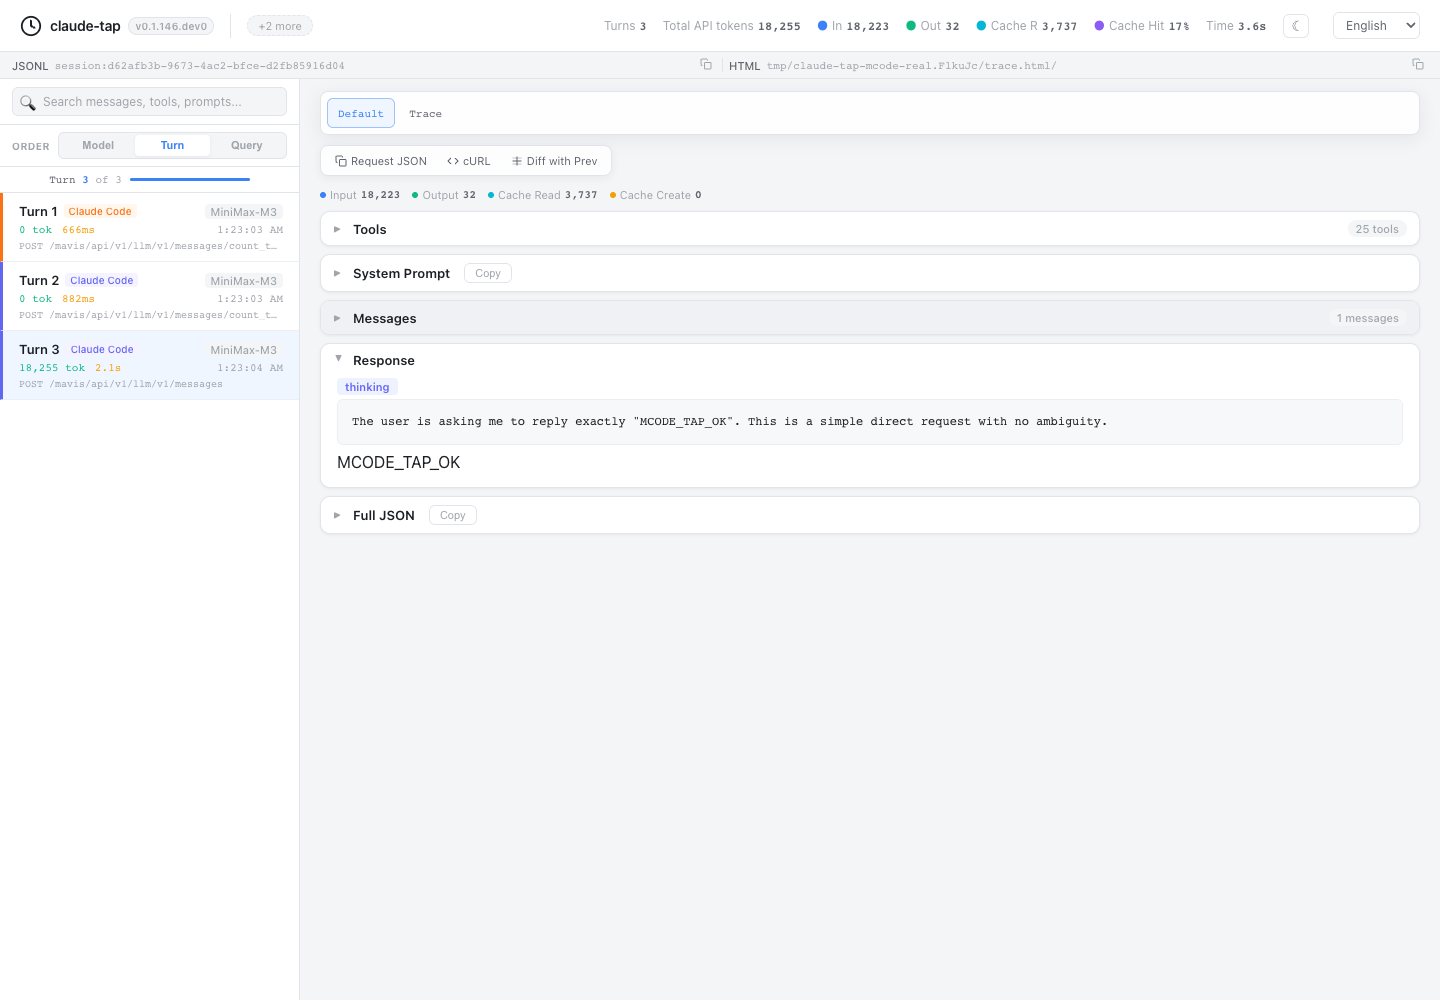
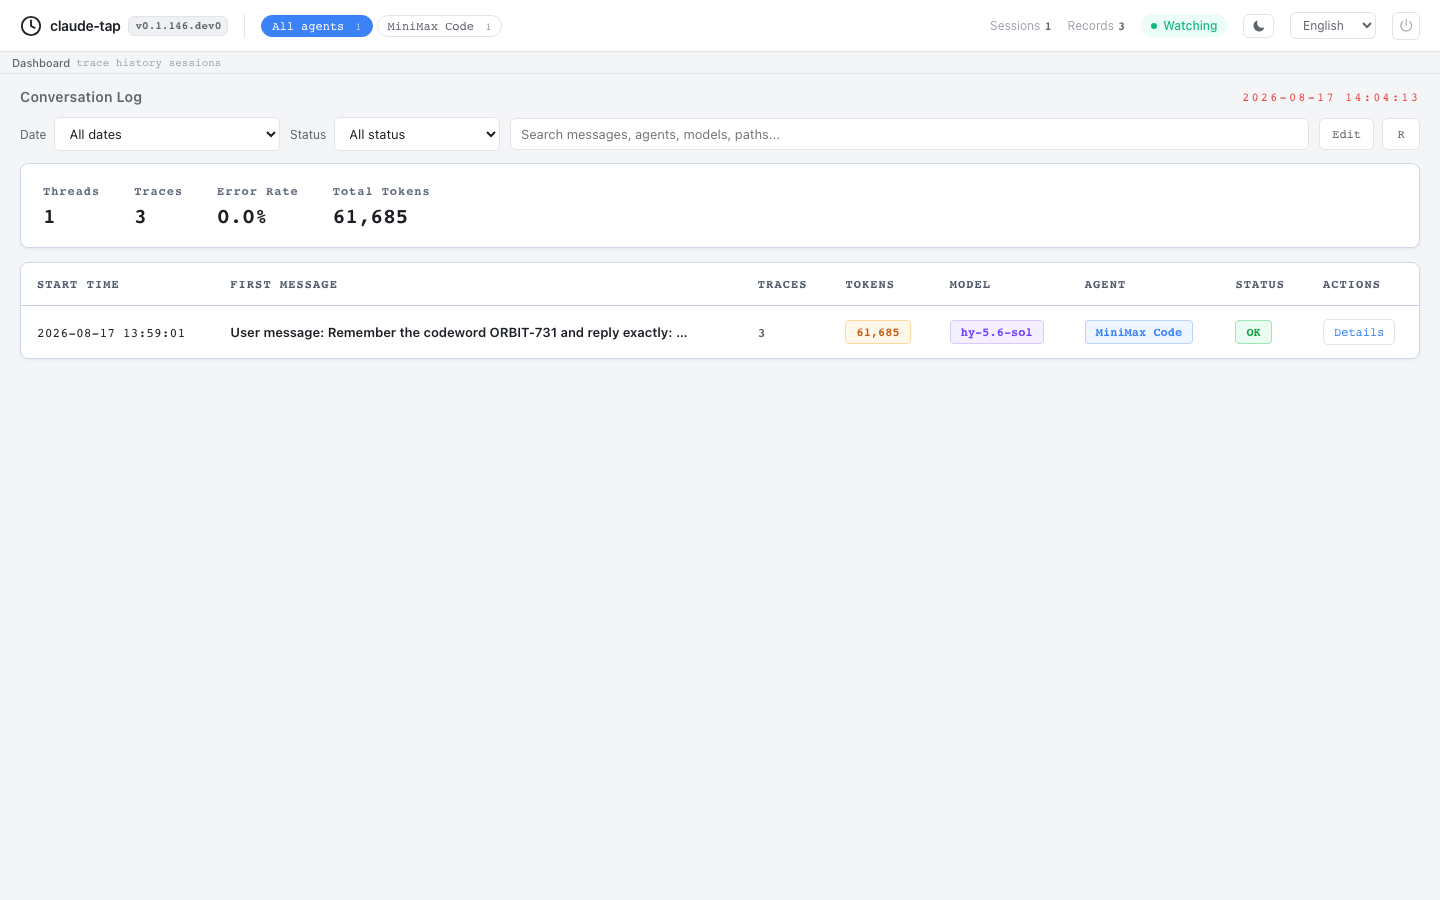
fix: tighten MiniMax Code trace evidence
Assisted-by: MiniMax Code

diff --git a/claude_tap/forward_proxy.py b/claude_tap/forward_proxy.py
@@ -127,6 +127,20 @@ def _matches_path_suffix(path: str, suffixes: tuple[str, ...]) -> bool:
     return any(clean.endswith(suffix.lower()) for suffix in suffixes)
 
 
+def _is_model_request_body(path: str, request_body: dict | None) -> bool:
+    if not isinstance(request_body, dict):
+        return False
+    model = request_body.get("model")
+    if not isinstance(model, str) or not model.strip():
+        return False
+    clean_path = path.split("?", 1)[0].rstrip("/").lower()
+    if clean_path.endswith(("/messages", "/messages/count_tokens", "/chat/completions")):
+        return isinstance(request_body.get("messages"), list)
+    if clean_path.endswith("/responses"):
+        return "input" in request_body
+    return False
+
+
 def _header_value(headers: Mapping[str, str], name: str) -> str:
     if value := headers.get(name):
         return value
@@ -279,6 +293,7 @@ class ForwardProxyServer:
         trace_methods: tuple[str, ...] = (),
         trace_path_prefixes: tuple[str, ...] = (),
         trace_path_suffixes: tuple[str, ...] = (),
+        trace_model_requests_only: bool = False,
         store_stream_events: bool = False,
         capture_only: bool = False,
     ) -> None:
@@ -292,6 +307,7 @@ class ForwardProxyServer:
         self._trace_methods = frozenset(method.upper() for method in trace_methods)
         self._trace_path_prefixes = trace_path_prefixes
         self._trace_path_suffixes = trace_path_suffixes
+        self._trace_model_requests_only = trace_model_requests_only
         self._store_stream_events = store_stream_events
         self._capture_only = capture_only
         self._server: asyncio.Server | None = None
@@ -300,16 +316,20 @@ class ForwardProxyServer:
         self._turn_counter = 0
         self.actual_port: int = port
 
-    def _should_trace_request(self, method: str, path: str) -> bool:
-        if self._trace_methods and method.upper() not in self._trace_methods:
+    def _should_trace_request(self, method: str, path: str, request_body: dict | None = None) -> bool:
+        normalized_method = method.upper()
+        if self._trace_methods and normalized_method not in self._trace_methods:
             return False
         has_path_filter = bool(self._trace_path_prefixes or self._trace_path_suffixes)
-        matches_path = _matches_path_prefix(path, self._trace_path_prefixes) or _matches_path_suffix(
-            path, self._trace_path_suffixes
-        )
-        if has_path_filter and not matches_path:
+        matches_prefix = _matches_path_prefix(path, self._trace_path_prefixes)
+        matches_suffix = _matches_path_suffix(path, self._trace_path_suffixes)
+        if has_path_filter and not (matches_prefix or matches_suffix):
             return False
-        return True
+        if not self._trace_model_requests_only:
+            return True
+        if normalized_method == "WEBSOCKET":
+            return matches_prefix
+        return _is_model_request_body(path, request_body)
 
     def _next_trace_turn(self) -> int:
         self._turn_counter += 1
@@ -559,14 +579,14 @@ class ForwardProxyServer:
         client_writer: asyncio.StreamWriter,
     ) -> None:
         """Forward request to upstream, record trace, send response back."""
-        should_trace = self._should_trace_request(method, path)
+        trace_body = _decode_request_body_for_trace(body, headers)
+        req_body = _parse_request_body_for_trace(trace_body, headers)
+        should_trace = self._should_trace_request(method, path, req_body)
         turn = self._next_trace_turn() if should_trace else None
         req_id = f"req_{uuid.uuid4().hex[:12]}"
         t0 = time.monotonic()
         log_prefix = f"[Turn {turn}]" if turn is not None else "[relay]"
 
-        trace_body = _decode_request_body_for_trace(body, headers)
-        req_body = _parse_request_body_for_trace(trace_body, headers)
         upstream_base_url = _upstream_base_url(upstream_url, path)
 
         is_streaming = is_capture_only_streaming_request(path, req_body)

diff --git a/tests/test_mcode_launch.py b/tests/test_mcode_launch.py
@@ -36,6 +36,7 @@ def test_mcode_registered_as_filtered_forward_proxy_client() -> None:
     assert cfg.default_proxy_mode == "forward"
     assert cfg.forward_trace_methods == ("POST", "WEBSOCKET")
     assert cfg.forward_trace_path_prefixes == ("/backend-api/codex/responses",)
+    assert cfg.forward_trace_model_requests_only is True
     assert cfg.forward_trace_path_suffixes == (
         "/messages",
         "/messages/count_tokens",
@@ -59,19 +60,22 @@ def test_parse_args_mcode_rejects_reverse_mode(capsys: pytest.CaptureFixture[str
 
 
 @pytest.mark.parametrize(
-    ("method", "path", "expected"),
+    ("method", "path", "request_body", "expected"),
     [
-        ("POST", "/mavis/api/v1/llm/v1/messages", True),
-        ("POST", "/v1/messages/count_tokens", True),
-        ("POST", "/v1/chat/completions", True),
-        ("POST", "/v1/responses", True),
-        ("WEBSOCKET", "/backend-api/codex/responses", True),
-        ("GET", "/v1/messages", False),
-        ("POST", "/mavis/api/v1/auth/refresh", False),
-        ("POST", "/v1/models", False),
+        ("POST", "/mavis/api/v1/llm/v1/messages", {"model": "MiniMax-M3", "messages": []}, True),
+        ("POST", "/v1/messages/count_tokens", {"model": "MiniMax-M3", "messages": []}, True),
+        ("POST", "/v1/chat/completions", {"model": "custom-model", "messages": []}, True),
+        ("POST", "/v1/responses", {"model": "gpt-5", "input": "hello"}, True),
+        ("WEBSOCKET", "/backend-api/codex/responses", None, True),
+        ("GET", "/v1/messages", None, False),
+        ("POST", "/mavis/api/v1/auth/refresh", {"refresh_token": "secret"}, False),
+        ("POST", "/v1/models", {}, False),
+        ("POST", "/tools/messages", {"tool": "remote-service", "payload": "sensitive"}, False),
+        ("POST", "/chat/completions", {"messages": []}, False),
+        ("WEBSOCKET", "/tools/responses", None, False),
     ],
 )
-def test_mcode_capture_filter(method: str, path: str, expected: bool) -> None:
+def test_mcode_capture_filter(method: str, path: str, request_body: dict | None, expected: bool) -> None:
     cfg = CLIENT_CONFIGS["mcode"]
     server = ForwardProxyServer(
         host="127.0.0.1",
@@ -82,9 +86,10 @@ def test_mcode_capture_filter(method: str, path: str, expected: bool) -> None:
         trace_methods=cfg.forward_trace_methods,
         trace_path_prefixes=cfg.forward_trace_path_prefixes,
         trace_path_suffixes=cfg.forward_trace_path_suffixes,
+        trace_model_requests_only=cfg.forward_trace_model_requests_only,
     )
 
-    assert server._should_trace_request(method, path) is expected
+    assert server._should_trace_request(method, path, request_body) is expected
 
 
 @pytest.mark.asyncio

diff --git a/tests/test_e2e.py b/tests/test_e2e.py
@@ -2236,6 +2236,14 @@ refresh_req = urllib.request.Request(
 with urllib.request.urlopen(refresh_req) as refresh_resp:
     assert refresh_resp.status == 204
 
+non_model_req = urllib.request.Request(
+    f"{base}/tools/messages",
+    data=json.dumps({"tool": "remote-service", "payload": "must-not-be-persisted"}).encode(),
+    headers={"Content-Type": "application/json"},
+)
+with urllib.request.urlopen(non_model_req) as non_model_resp:
+    assert non_model_resp.status == 204
+
 req_body = json.dumps({
     "model": "MiniMax-M3",
     "system": "You are a helpful software engineer assistant.",
@@ -2277,7 +2285,7 @@ def test_mcode_client_forward_proxy_filters_non_model_requests():
     async def handler(request):
         from aiohttp import web
 
-        if request.path == "/mavis/api/v1/auth/refresh":
+        if request.path in {"/mavis/api/v1/auth/refresh", "/tools/messages"}:
             return web.Response(status=204)
 
         body = await request.json()
@@ -2355,6 +2363,7 @@ def test_mcode_client_forward_proxy_filters_non_model_requests():
             "output_tokens": 4,
         }
         assert "auth/refresh" not in json.dumps(records)
+        assert "must-not-be-persisted" not in json.dumps(records)
         assert "MiniMax Code" in proc.stdout
         assert "forward proxy" in proc.stdout
     finally:

diff --git a/claude_tap/cli_clients.py b/claude_tap/cli_clients.py
@@ -332,6 +332,10 @@ class ClientConfig:
     forward_trace_methods: tuple[str, ...] = ()
     forward_trace_path_prefixes: tuple[str, ...] = ()
     forward_trace_path_suffixes: tuple[str, ...] = ()
+    # Require a recognized model request body before persisting a matching HTTP
+    # path. This keeps generic tool/control-plane endpoints with model-like path
+    # suffixes out of trace storage while still relaying them.
+    forward_trace_model_requests_only: bool = False
     # Transcript-only clients are observed from local session logs instead of a
     # spawned process and do not need a reverse or forward proxy.
     transcript_only: bool = False
@@ -502,6 +506,7 @@ CLIENT_CONFIGS: dict[str, ClientConfig] = {
             "/chat/completions",
             "/responses",
         ),
+        forward_trace_model_requests_only=True,
     ),
     "gemini": ClientConfig(
         cmd="gemini",

diff --git a/claude_tap/cli.py b/claude_tap/cli.py
@@ -486,6 +486,7 @@ async def _async_main(args: argparse.Namespace) -> int:
                     trace_methods=CLIENT_CONFIGS[args.client].forward_trace_methods,
                     trace_path_prefixes=CLIENT_CONFIGS[args.client].forward_trace_path_prefixes,
                     trace_path_suffixes=CLIENT_CONFIGS[args.client].forward_trace_path_suffixes,
+                    trace_model_requests_only=CLIENT_CONFIGS[args.client].forward_trace_model_requests_only,
                     store_stream_events=args.store_stream_events,
                     capture_only=capture_only,
                 )

diff --git a/tests/test_dashboard.py b/tests/test_dashboard.py
@@ -844,6 +844,7 @@ def test_dashboard_parses_provider_fallbacks(trace_db, tmp_path: Path) -> None:
 
     provider_cases = [
         ({"metadata": {"client": "agy"}}, [], "Antigravity"),
+        ({"metadata": {"client": "mcode"}}, [], "MiniMax Code"),
         ({}, [{"capture": {"client": "cursor"}}], "Cursor"),
         ({}, [{"request": {"headers": {"host": "generativelanguage.googleapis.com"}}}], "Gemini"),
         ({}, [{"request": {"path": "/v1/responses"}}], "Codex"),

diff --git a/claude_tap/dashboard.py b/claude_tap/dashboard.py
@@ -35,6 +35,7 @@ CLIENT_LABELS = {
     "hermes": "Hermes",
     "kimi": "Kimi",
     "kimi-code": "Kimi Code",
+    "mcode": "MiniMax Code",
     "mimo": "MiMo Code",
     "opencode": "OpenCode",
     "pi": "Pi",

diff --git a/.agents/evidence/pr/mcode-client/README.md b/.agents/evidence/pr/mcode-client/README.md
@@ -1,28 +1,37 @@
 # MiniMax Code Client Evidence
 
-Source: real MiniMax Code 0.1.2 run through this branch's filtered forward
-proxy using the locally authenticated managed MiniMax provider.
+Source: a real interactive MiniMax Code 0.1.2 TUI session launched through
+this branch's filtered forward proxy with the locally authenticated managed
+MiniMax provider.
 
-- Trace session: `d62afb3b-9673-4ac2-bfce-d2fb85916d04`
+- Trace session: `76243671-fbdf-430e-9175-989e33b3ea97`
 - Proxy mode: `forward`
-- Model: `MiniMax-M3`
+- Client identity stored by claude-tap: `mcode` (`MiniMax Code` in dashboard)
+- Model: `hy-5.6-sol`
 - Captured model calls: 3
-- MCode exit code: 0
-- Expected and observed response: `MCODE_TAP_OK`
-- Exported viewer: `/tmp/claude-tap-mcode-real.FlkuJc/trace.html` (local only)
+- Session status after `/exit`: `complete`
 - Screenshot: `mcode-real-e2e-trace-viewer.png`
 
-The run used the safe prompt `Reply exactly MCODE_TAP_OK.`. The trace database,
-JSON export, and HTML viewer remain local and are not committed. The screenshot
-shows the final response and aggregate token accounting without authentication
-headers or user workspace content.
+The same interactive TUI conversation completed two user turns:
 
-Validation commands:
+1. `Remember the codeword ORBIT-731 and reply exactly: STORED ORBIT-731`
+   returned `STORED ORBIT-731`.
+2. `What codeword did I ask you to remember? Reply exactly: RECALL ORBIT-731`
+   returned `RECALL ORBIT-731`.
+
+The isolated SQLite database confirmed one completed `mcode` session with three
+captured model records, and all three records contained the safe codeword. The
+screenshot is the real dashboard summary for that database. It shows the
+`MiniMax Code` client identity, three traces, the actual model, successful
+status, and the safe first-message preview without exposing request headers,
+authentication data, system context, or user workspace content.
+
+The database, raw trace records, and tmux log remain under an isolated `/tmp`
+directory and are not committed.
+
+Validation command:
 
 ```bash
 uv run python scripts/check_screenshots.py \
   .agents/evidence/pr/mcode-client/mcode-real-e2e-trace-viewer.png
-
-uv run python scripts/verify_screenshots.py \
-  /tmp/claude-tap-mcode-real.FlkuJc/trace.html
 ```

diff --git a/docs/support-matrix.zh.md b/docs/support-matrix.zh.md
@@ -32,7 +32,9 @@ English version: [Support Matrix](support-matrix.md).
 | Kimi CLI（旧版 kimi-cli） | Kimi CLI 认证/配置 | `https://api.moonshot.ai/v1` | 无 | HTTP/SSE Chat Completions | 配置支持 |
 | Kimi Code CLI | `~/.kimi-code/config.toml` + OAuth（`managed:kimi-code`） | `https://api.kimi.com/coding/v1` | 无 | HTTP/SSE Chat Completions | 单测覆盖（`KIMI_CODE_HOME` sandbox） |
 | Kimi Code CLI | 配置中自定义 `type = "kimi"` provider | `https://api.moonshot.ai/v1` | 无 | HTTP/SSE Chat Completions | 支持 `--tap-target` |
-| MiniMax Code（`mcode`） | MiniMax 托管访问、BYOK、自定义 provider 或 Codex OAuth | Forward proxy（任意 HTTPS 上游）；只持久化模型路径 | n/a | HTTP/SSE + WebSocket；要求 Node 支持 `--use-env-proxy` | 已使用 MCode 0.1.2 完成真实 E2E 验证 |
+| MiniMax Code（`mcode`） | MiniMax 托管访问 | Forward proxy 到 MiniMax 托管模型上游；只持久化通过校验的模型请求结构 | n/a | HTTP/SSE Chat Completions；要求 Node 支持 `--use-env-proxy` | 已使用 MCode 0.1.2 完成真实交互式多轮 E2E 验证 |
+| MiniMax Code（`mcode`） | BYOK 或自定义 provider | Forward proxy 到已配置 provider；只持久化通过校验的模型请求结构 | n/a | Messages、Chat Completions 或 Responses 的 HTTP/SSE | 配置与集成测试已覆盖；真实 provider E2E 取决于用户配置 |
+| MiniMax Code（`mcode`） | Codex OAuth | Forward proxy 到 Codex backend | n/a | HTTP/SSE + WebSocket Responses | 路径过滤与 relay 已由单测覆盖；尚未完成真实 Codex OAuth/WebSocket E2E |
 | OpenCode | 通过 `opencode providers` 配置 provider 凭据（OpenAI OAuth 与 OpenCode free provider 均已验证） | Forward proxy（任意 HTTPS 上游） | n/a | HTTP/SSE | 真实 E2E 已验证 |
 | OpenCode | 仅 Anthropic provider（`--tap-proxy-mode reverse`） | `https://api.anthropic.com` | 无 | HTTP/SSE | 单测覆盖 |
 | MiMo Code | 通过 `mimo` TUI 配置或 MiMo Platform OAuth 配置 provider 凭据 | Forward proxy（任意 HTTPS 上游） | n/a | HTTP/SSE | 单测覆盖 |

diff --git a/docs/support-matrix.md b/docs/support-matrix.md
@@ -32,7 +32,9 @@ Simplified Chinese version: [支持矩阵](support-matrix.zh.md).
 | Kimi CLI (legacy kimi-cli) | Kimi CLI auth/config | `https://api.moonshot.ai/v1` | none | HTTP/SSE Chat Completions | Supported by config |
 | Kimi Code CLI | `~/.kimi-code/config.toml` + OAuth (`managed:kimi-code`) | `https://api.kimi.com/coding/v1` | none | HTTP/SSE Chat Completions | Unit-tested (`KIMI_CODE_HOME` sandbox) |
 | Kimi Code CLI | Custom `type = "kimi"` provider in config | `https://api.moonshot.ai/v1` | none | HTTP/SSE Chat Completions | Supported via `--tap-target` |
-| MiniMax Code (`mcode`) | Managed MiniMax access, BYOK, custom providers, or Codex OAuth | Forward proxy (any HTTPS upstream); only model paths are persisted | n/a | HTTP/SSE + WebSocket; requires Node `--use-env-proxy` support | Real E2E verified with MCode 0.1.2 |
+| MiniMax Code (`mcode`) | Managed MiniMax access | Forward proxy to the managed MiniMax model upstream; only validated model-request shapes are persisted | n/a | HTTP/SSE Chat Completions; requires Node `--use-env-proxy` support | Real interactive multi-turn E2E verified with MCode 0.1.2 |
+| MiniMax Code (`mcode`) | BYOK or custom provider | Forward proxy to the configured provider; only validated model-request shapes are persisted | n/a | HTTP/SSE for Messages, Chat Completions, or Responses | Configuration and integration tested; real-provider E2E varies by user configuration |
+| MiniMax Code (`mcode`) | Codex OAuth | Forward proxy to the Codex backend | n/a | HTTP/SSE + WebSocket Responses | Path filtering and relay unit-tested; real Codex OAuth/WebSocket E2E not yet verified |
 | OpenCode | Provider creds via `opencode providers` (OpenAI OAuth and OpenCode free provider verified) | Forward proxy (any HTTPS upstream) | n/a | HTTP/SSE | Real E2E verified |
 | OpenCode | Anthropic provider only (`--tap-proxy-mode reverse`) | `https://api.anthropic.com` | none | HTTP/SSE | Unit-tested |
 | MiMo Code | Provider creds via `mimo` TUI config or MiMo Platform OAuth | Forward proxy (any HTTPS upstream) | n/a | HTTP/SSE | Unit-tested |

diff --git a/CHANGELOG.md b/CHANGELOG.md
@@ -9,7 +9,7 @@ and this project adheres to [Semantic Versioning](https://semver.org/spec/v2.0.0
 
 ### Added
 
-- Add filtered forward-proxy tracing for MiniMax Code (`--tap-client mcode`).
+- Add filtered forward-proxy tracing for MiniMax Code (`--tap-client mcode`), validating model request shapes before persistence and identifying MCode sessions correctly in the dashboard.
 
 ### Fixed
 
